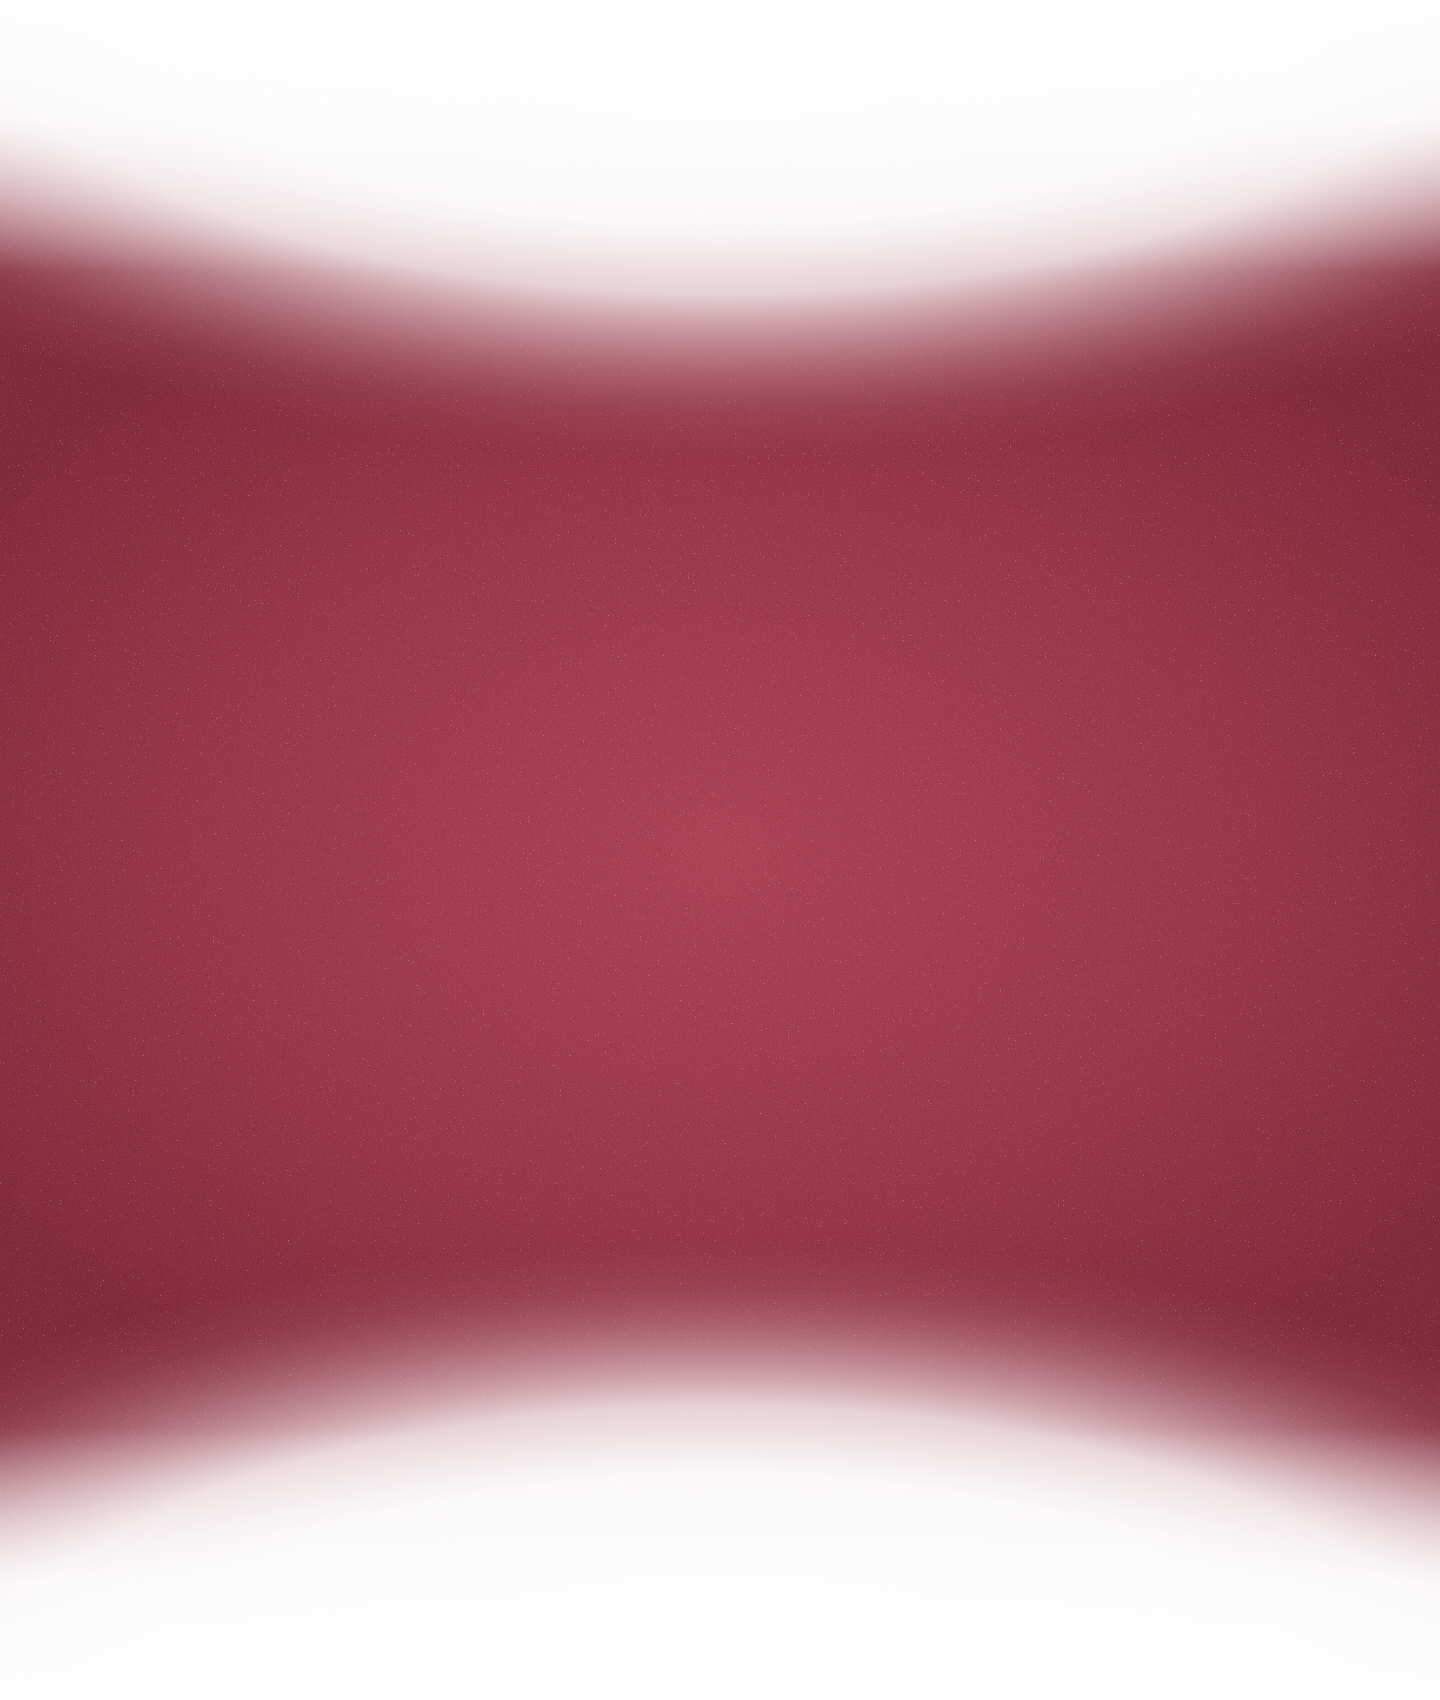
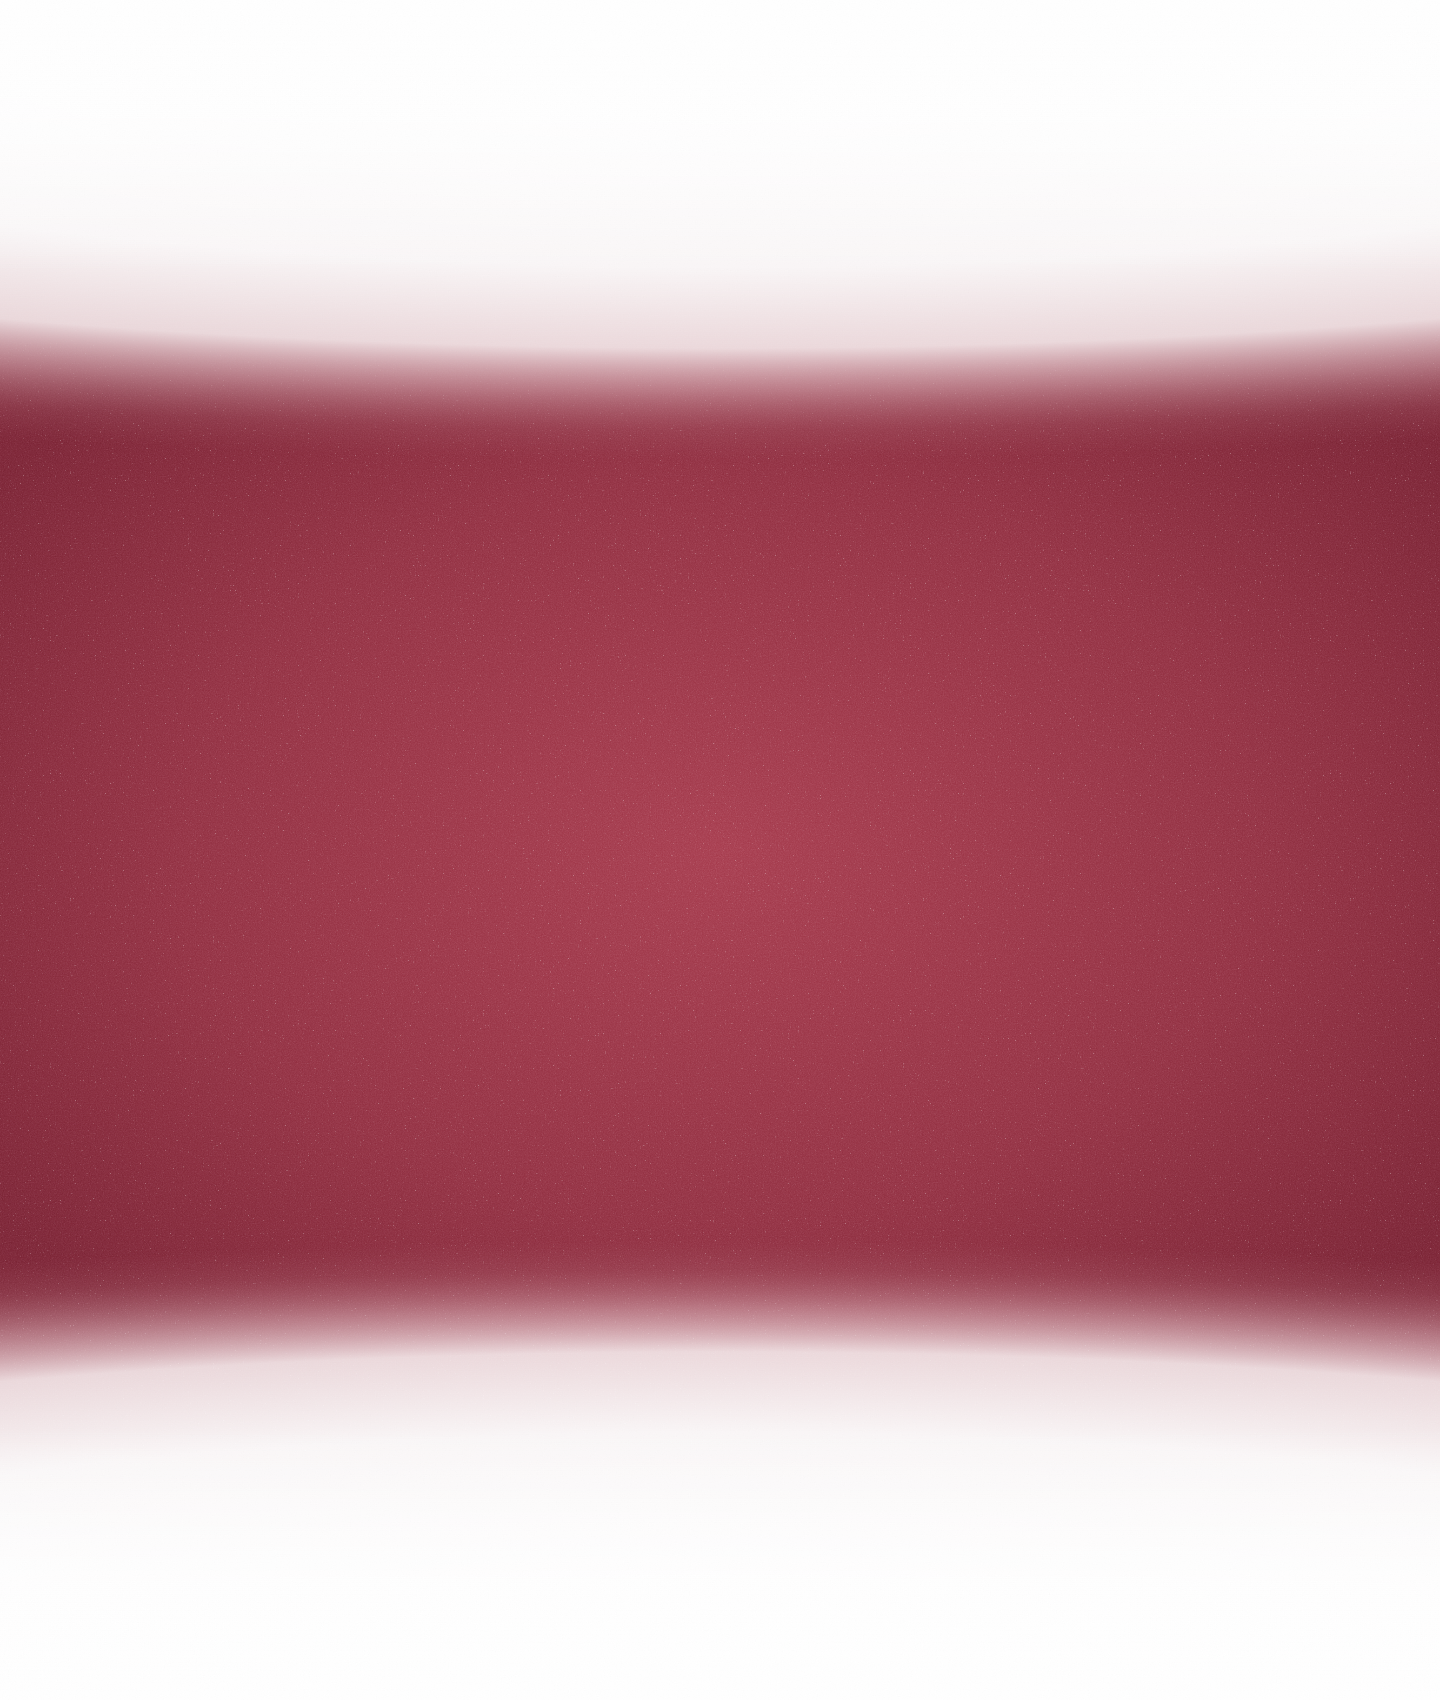
Фон: дуга площе, переходы короче

Changed region(s): [[0.0, 0.7482, 1.0, 0.9353], [0.0, 0.0624, 1.0, 0.2494]]

diff --git a/source/bg-burgundy-dust.html b/source/bg-burgundy-dust.html
@@ -2,13 +2,13 @@
 <svg width="1440" height="1700" viewBox="0 0 1440 1700" xmlns="http://www.w3.org/2000/svg">
 <defs>
   <!-- белые «шары» сверху и снизу — овальные, мягкий край -->
-  <radialGradient id="top" cx="720" cy="-60" r="1" gradientUnits="userSpaceOnUse" gradientTransform="translate(720 -60) scale(1150 520) translate(-720 60)">
+  <radialGradient id="top" cx="720" cy="30" r="1" gradientUnits="userSpaceOnUse" gradientTransform="translate(720 30) scale(2300 430) translate(-720 -30)">
     <stop offset="0" stop-color="#fff" stop-opacity="1"/><stop offset=".55" stop-color="#fff" stop-opacity=".96"/>
-    <stop offset=".68" stop-color="#FAF1F2" stop-opacity=".85"/><stop offset=".8" stop-color="#E8C4CA" stop-opacity=".48"/><stop offset=".91" stop-color="#C98C97" stop-opacity=".16"/><stop offset="1" stop-color="#B8707D" stop-opacity="0"/>
+    <stop offset=".74" stop-color="#FAF1F2" stop-opacity=".88"/><stop offset=".84" stop-color="#E8C4CA" stop-opacity=".5"/><stop offset=".93" stop-color="#C98C97" stop-opacity=".16"/><stop offset="1" stop-color="#B8707D" stop-opacity="0"/>
   </radialGradient>
-  <radialGradient id="bot" cx="720" cy="1760" r="1" gradientUnits="userSpaceOnUse" gradientTransform="translate(720 1760) scale(1150 520) translate(-720 -1760)">
+  <radialGradient id="bot" cx="720" cy="1670" r="1" gradientUnits="userSpaceOnUse" gradientTransform="translate(720 1670) scale(2300 430) translate(-720 -1670)">
     <stop offset="0" stop-color="#fff" stop-opacity="1"/><stop offset=".55" stop-color="#fff" stop-opacity=".96"/>
-    <stop offset=".68" stop-color="#FAF1F2" stop-opacity=".85"/><stop offset=".8" stop-color="#E8C4CA" stop-opacity=".48"/><stop offset=".91" stop-color="#C98C97" stop-opacity=".16"/><stop offset="1" stop-color="#B8707D" stop-opacity="0"/>
+    <stop offset=".74" stop-color="#FAF1F2" stop-opacity=".88"/><stop offset=".84" stop-color="#E8C4CA" stop-opacity=".5"/><stop offset=".93" stop-color="#C98C97" stop-opacity=".16"/><stop offset="1" stop-color="#B8707D" stop-opacity="0"/>
   </radialGradient>
   <!-- глубина бордового: темнее по бокам, светлее к центру -->
   <radialGradient id="depth" cx="720" cy="850" r="1" gradientUnits="userSpaceOnUse" gradientTransform="translate(720 850) scale(900 620) translate(-720 -850)">
